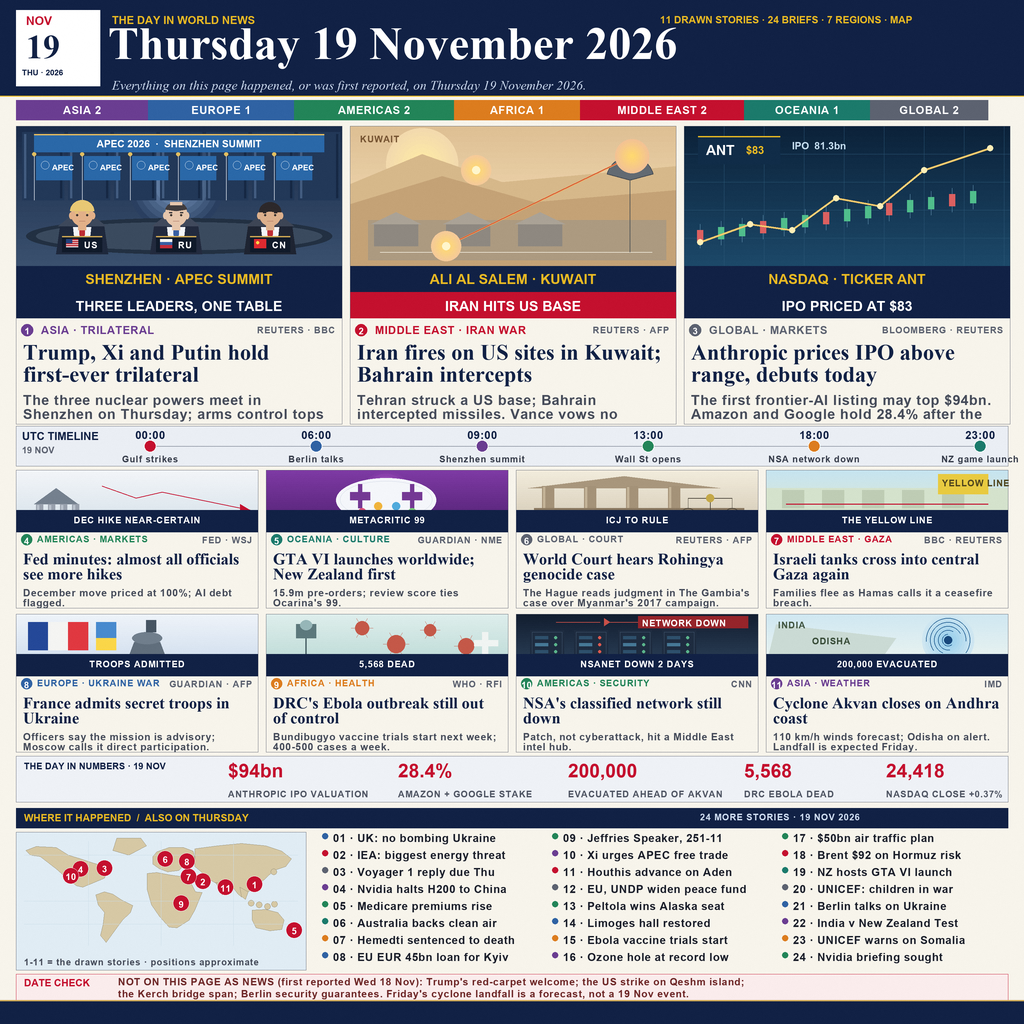
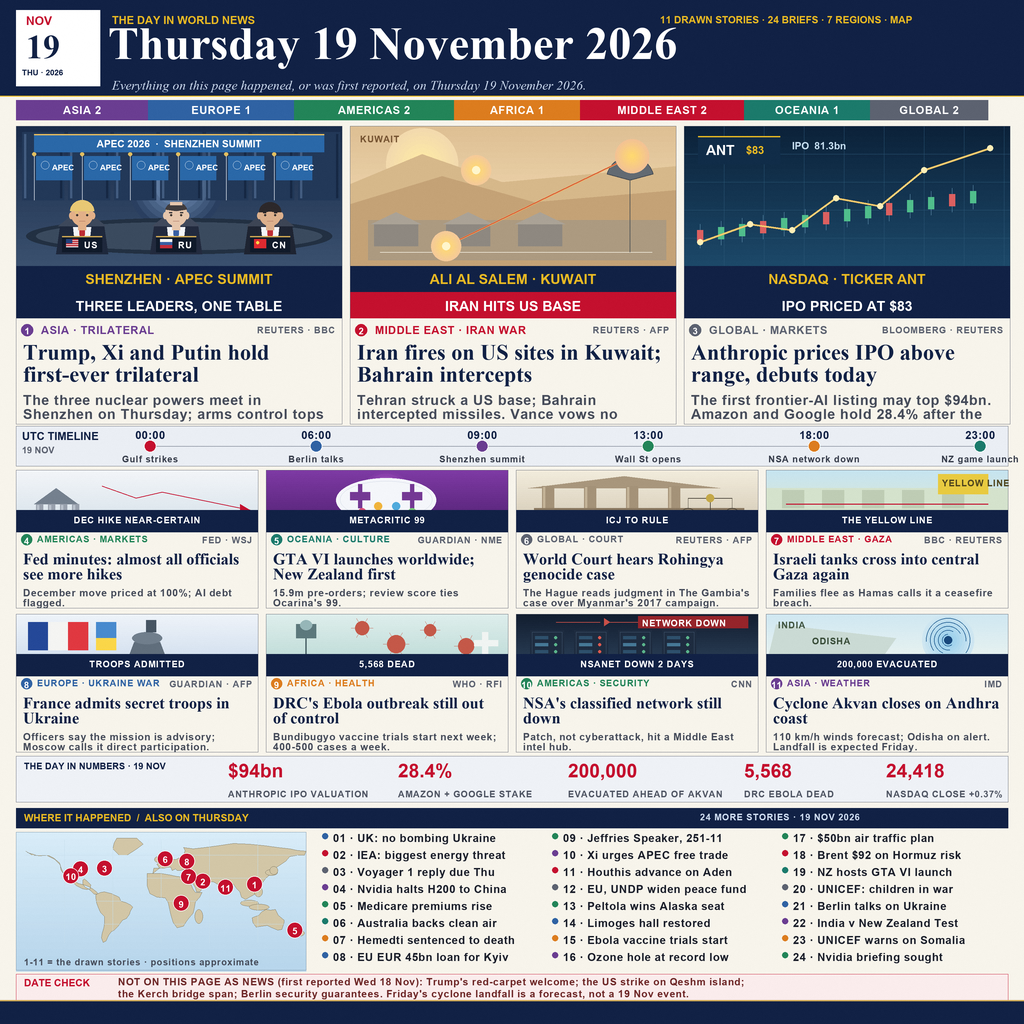
Upgrade the world map with detailed coastlines and islands

Changed region(s): [[0.0, 0.8125, 0.3125, 0.9688], [0.2812, 0.8125, 0.3125, 0.8438]]

diff --git a/render.py b/render.py
@@ -414,39 +414,66 @@ def art_nsa(d,x0,y0,x1,y1):
     txt(d,x0+126,y0+4,"NETWORK DOWN",F_MICRO,WHITE)
 
 def draw_world_map(d,x0,y0,x1,y1):
-    """Small, clear world map with the 11 story locations numbered 1-11."""
-    d.rectangle([x0,y0,x1,y1],fill=(224,236,244),outline=GRAY,width=1)
+    """A detailed, realistic world map with the 11 drawn-story locations."""
+    vg(d,x0,y0,x1,y1,(216,236,248),(184,214,236),n=20)
+    d.rectangle([x0,y0,x1,y1],outline=(118,144,166),width=1)
     def ll(lon,lat):
         return (x0+(lon+180)/360*(x1-x0), y0+(90-lat)/180*(y1-y0))
     continents=[
-      [(-168,66),(-155,71),(-130,70),(-115,60),(-100,55),(-85,50),(-70,45),
-       (-66,44),(-70,30),(-81,25),(-97,18),(-105,20),(-117,30),(-130,42),(-150,58),(-162,60)],
-      [(-81,8),(-70,12),(-60,9),(-50,2),(-35,-6),(-38,-15),(-48,-25),(-55,-35),
-       (-68,-54),(-75,-45),(-72,-30),(-70,-15),(-78,-5)],
-      [(-55,82),(-25,82),(-18,72),(-40,60),(-60,66)],
-      [(-10,58),(-5,64),(10,70),(28,70),(40,65),(42,55),(30,48),(22,40),(8,38),(-2,42),(-10,48)],
-      [(-17,36),(-5,37),(10,34),(25,32),(34,30),(43,12),(51,11),(42,-12),(35,-25),
-       (20,-35),(10,-34),(-2,-20),(-12,-5),(-17,15)],
-      [(42,68),(70,72),(100,75),(130,72),(150,65),(162,55),(155,45),(140,40),
-       (130,30),(122,22),(108,12),(100,5),(95,10),(88,20),(78,8),(70,22),(60,28),(50,38),(42,45)],
-      [(68,24),(78,22),(88,21),(82,8),(76,8)],
-      [(98,18),(108,12),(105,2),(100,6)],
-      [(113,-12),(130,-11),(145,-15),(153,-25),(150,-37),(135,-39),(118,-35),(113,-25)],
+      # North America
+      [(-168,65),(-160,60),(-150,59),(-140,60),(-133,56),(-126,50),(-124,43),
+       (-121,36),(-117,32),(-112,29),(-109,24),(-105,20),(-97,16),(-92,15),
+       (-88,16),(-87,21),(-91,25),(-95,29),(-97,27),(-97,22),(-94,18),
+       (-90,16),(-86,12),(-83,9),(-79,9),(-77,8),(-80,12),(-85,16),(-90,19),
+       (-96,21),(-103,23),(-109,28),(-115,32),(-120,34),(-124,40),(-125,47),
+       (-132,54),(-142,60),(-155,60),(-165,63)],
+      # South America
+      [(-81,8),(-75,11),(-70,12),(-62,10),(-52,5),(-50,0),(-44,-2),(-38,-5),
+       (-35,-8),(-38,-13),(-39,-17),(-43,-23),(-48,-25),(-53,-33),(-58,-38),
+       (-62,-40),(-65,-45),(-68,-52),(-72,-54),(-74,-48),(-73,-42),(-71,-35),
+       (-70,-28),(-70,-20),(-75,-15),(-78,-8),(-80,-2),(-81,4)],
+      # Greenland
+      [(-55,82),(-30,82),(-22,74),(-30,68),(-42,60),(-52,60),(-60,68),(-58,76)],
+      # Eurasia
+      [(-10,36),(-9,43),(-2,43),(-5,48),(1,51),(4,53),(8,54),(10,57),(14,54),
+       (19,54),(24,57),(28,60),(30,66),(28,70),(40,68),(55,70),(70,72),(90,75),
+       (110,74),(130,72),(145,70),(160,68),(170,66),(180,65),(178,60),(170,60),
+       (160,58),(155,52),(145,45),(140,42),(135,34),(130,30),(127,25),(122,20),
+       (118,10),(110,5),(105,2),(100,5),(98,12),(94,16),(90,22),(88,21),(80,15),
+       (77,8),(73,15),(70,22),(65,25),(60,25),(57,20),(52,17),(48,12),(44,12),
+       (43,17),(40,22),(35,28),(34,31),(36,36),(30,40),(28,41),(24,40),(20,40),
+       (18,42),(14,40),(12,44),(8,44),(4,43),(-2,43)],
+      # Africa
+      [(-17,36),(-6,36),(0,36),(10,34),(20,32),(30,31),(34,28),(37,22),(40,15),
+       (43,11),(51,11),(48,5),(43,-1),(41,-10),(40,-16),(35,-22),(32,-26),
+       (28,-33),(20,-35),(15,-28),(12,-18),(9,-2),(5,4),(-5,5),(-14,10),(-17,20)],
+      # Australia
+      [(113,-22),(114,-28),(118,-34),(125,-33),(132,-32),(138,-35),(145,-38),
+       (150,-37),(153,-28),(153,-25),(146,-19),(142,-11),(136,-12),(130,-11),
+       (125,-14),(121,-19),(115,-21)],
     ]
+    land=(210,198,166); coast=(126,120,98)
     for poly in continents:
-        d.polygon([ll(*p) for p in poly],fill=(214,200,164),outline=(150,142,118))
-    for lon,lat in [(112,-3),(122,-5),(132,-7),(141,-4),(140,38)]:
-        x,y=ll(lon,lat); d.ellipse([x-3,y-3,x+3,y+3],fill=(214,200,164),outline=(150,142,118))
-    for lon in (-90,0,90): d.line([ll(lon,78),ll(lon,-58)],fill=(202,220,232),width=1)
-    for lat in (60,0,-30): d.line([ll(-170,lat),ll(170,lat)],fill=(202,220,232),width=1)
+        d.polygon([ll(*p) for p in poly],fill=land,outline=coast)
+    # islands: UK, Japan, Indonesia, Philippines, Madagascar, New Zealand
+    islands=[(-3,54,4,3),(137,37,6,3),(140,40,4,4),(110,-3,9,3),(122,-8,10,3),
+             (121,12,4,5),(47,-20,4,7),(172,-42,5,3)]
+    for lon,lat,rx,ry in islands:
+        x,y=ll(lon,lat)
+        d.ellipse([x-rx,y-ry,x+rx,y+ry],fill=land,outline=coast)
+    # graticule
+    for lon in (-120,-60,0,60,120):
+        d.line([ll(lon,80),ll(lon,-55)],fill=(198,222,236),width=1)
+    for lat in (60,30,0,-30):
+        d.line([ll(-170,lat),ll(170,lat)],fill=(198,222,236),width=1)
     points=[
       (1,116,22),(2,52,26),(3,-70,43),(4,-100,42),(5,166,-38),(6,5,55),
       (7,34,32),(8,32,52),(9,25,-3),(10,-112,33),(11,80,18),
     ]
     for n,lon,lat in points:
         x,y=ll(lon,lat)
-        x=min(max(x,x0+12),x1-12); y=min(max(y,y0+12),y1-18)
-        d.ellipse([x-8,y-8,x+8,y+8],fill=RED,outline=WHITE,width=1)
+        x=min(max(x,x0+10),x1-10); y=min(max(y,y0+10),y1-16)
+        d.ellipse([x-8,y-8,x+8,y+8],fill=RED,outline=WHITE,width=2)
         s=str(n); tw=tlen(d,s,F_MICRO)
         txt(d,x-tw/2,y-4,s,F_MICRO,WHITE)
     txt(d,x0+8,y1-13,"1-11 = the drawn stories · positions approximate",F_MICRO,(70,76,90))
